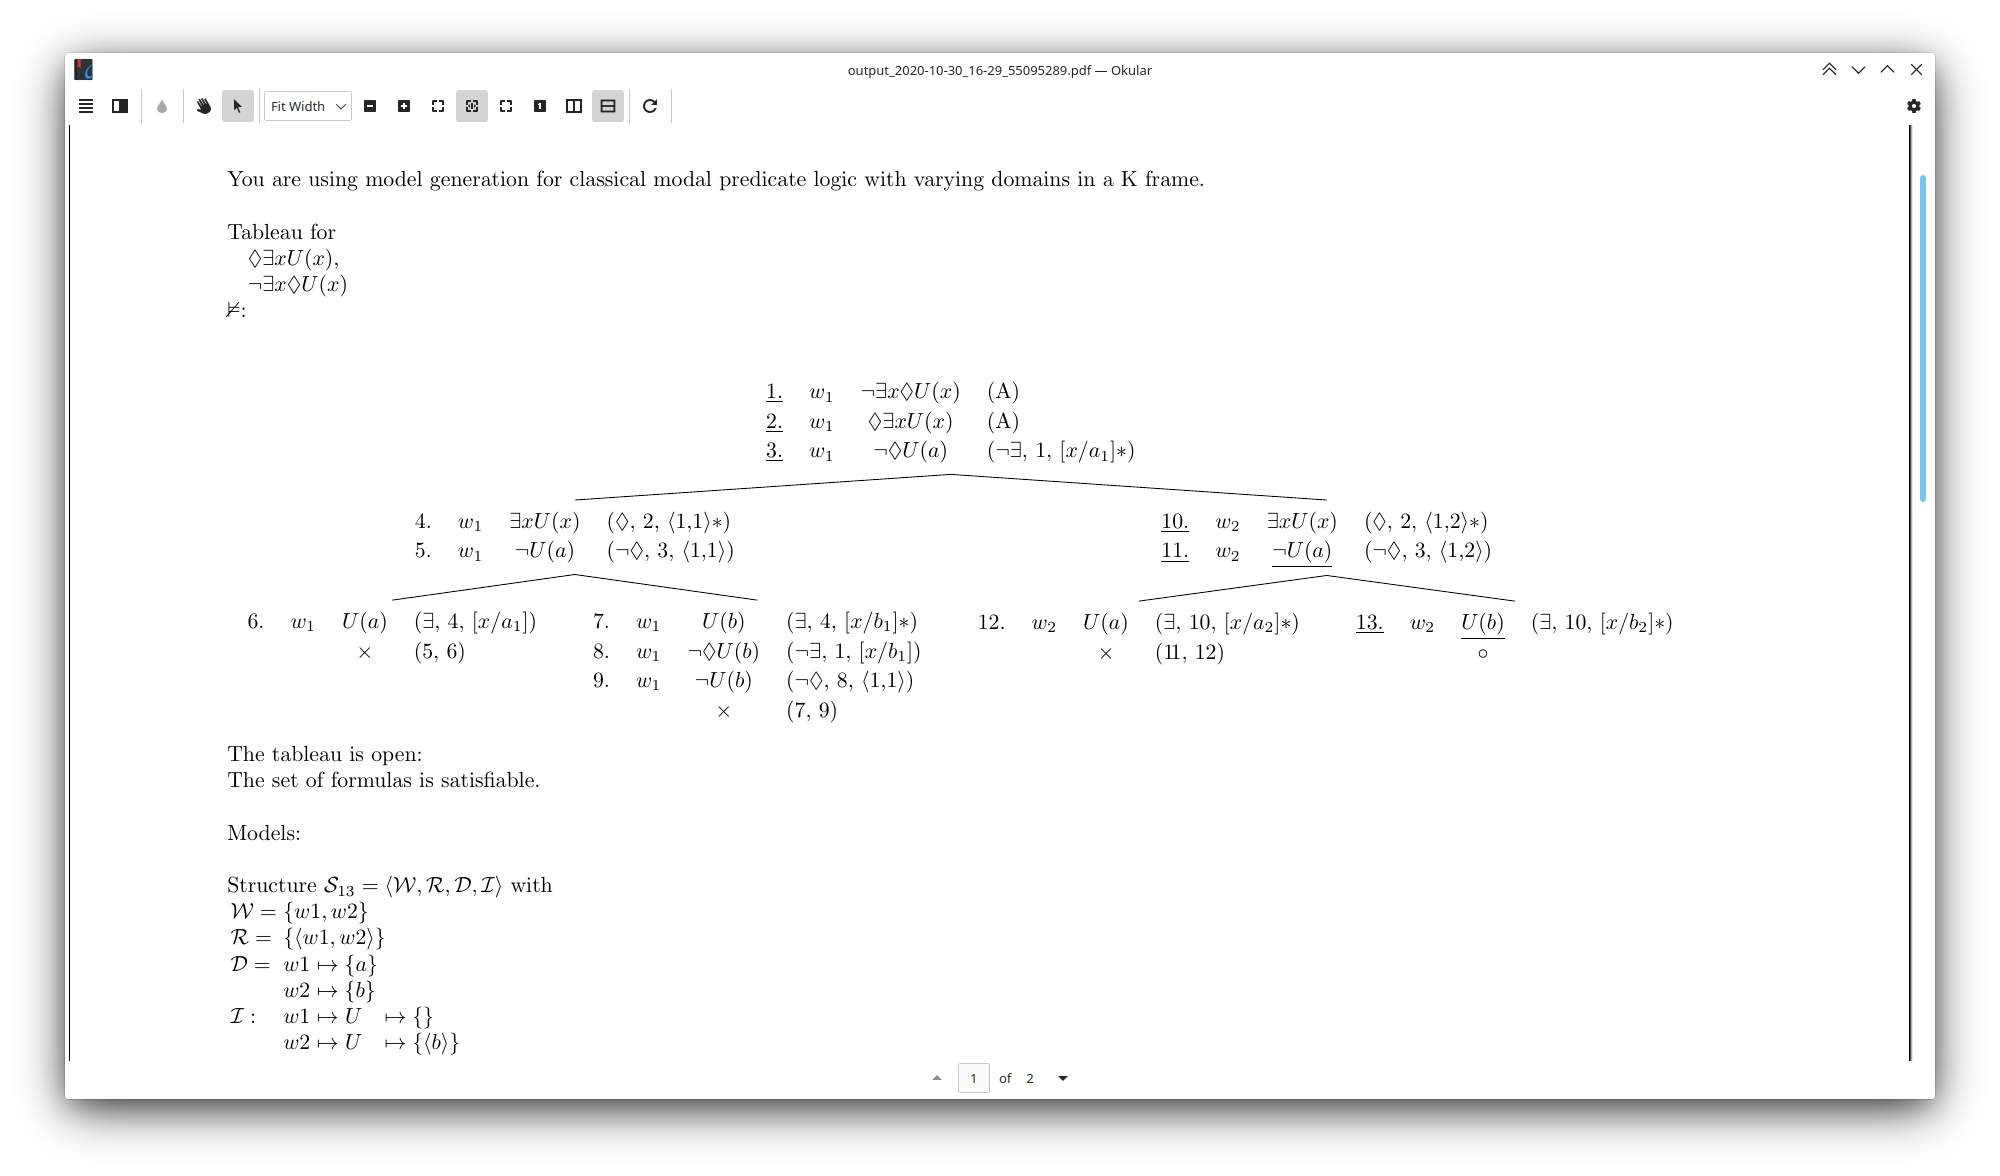
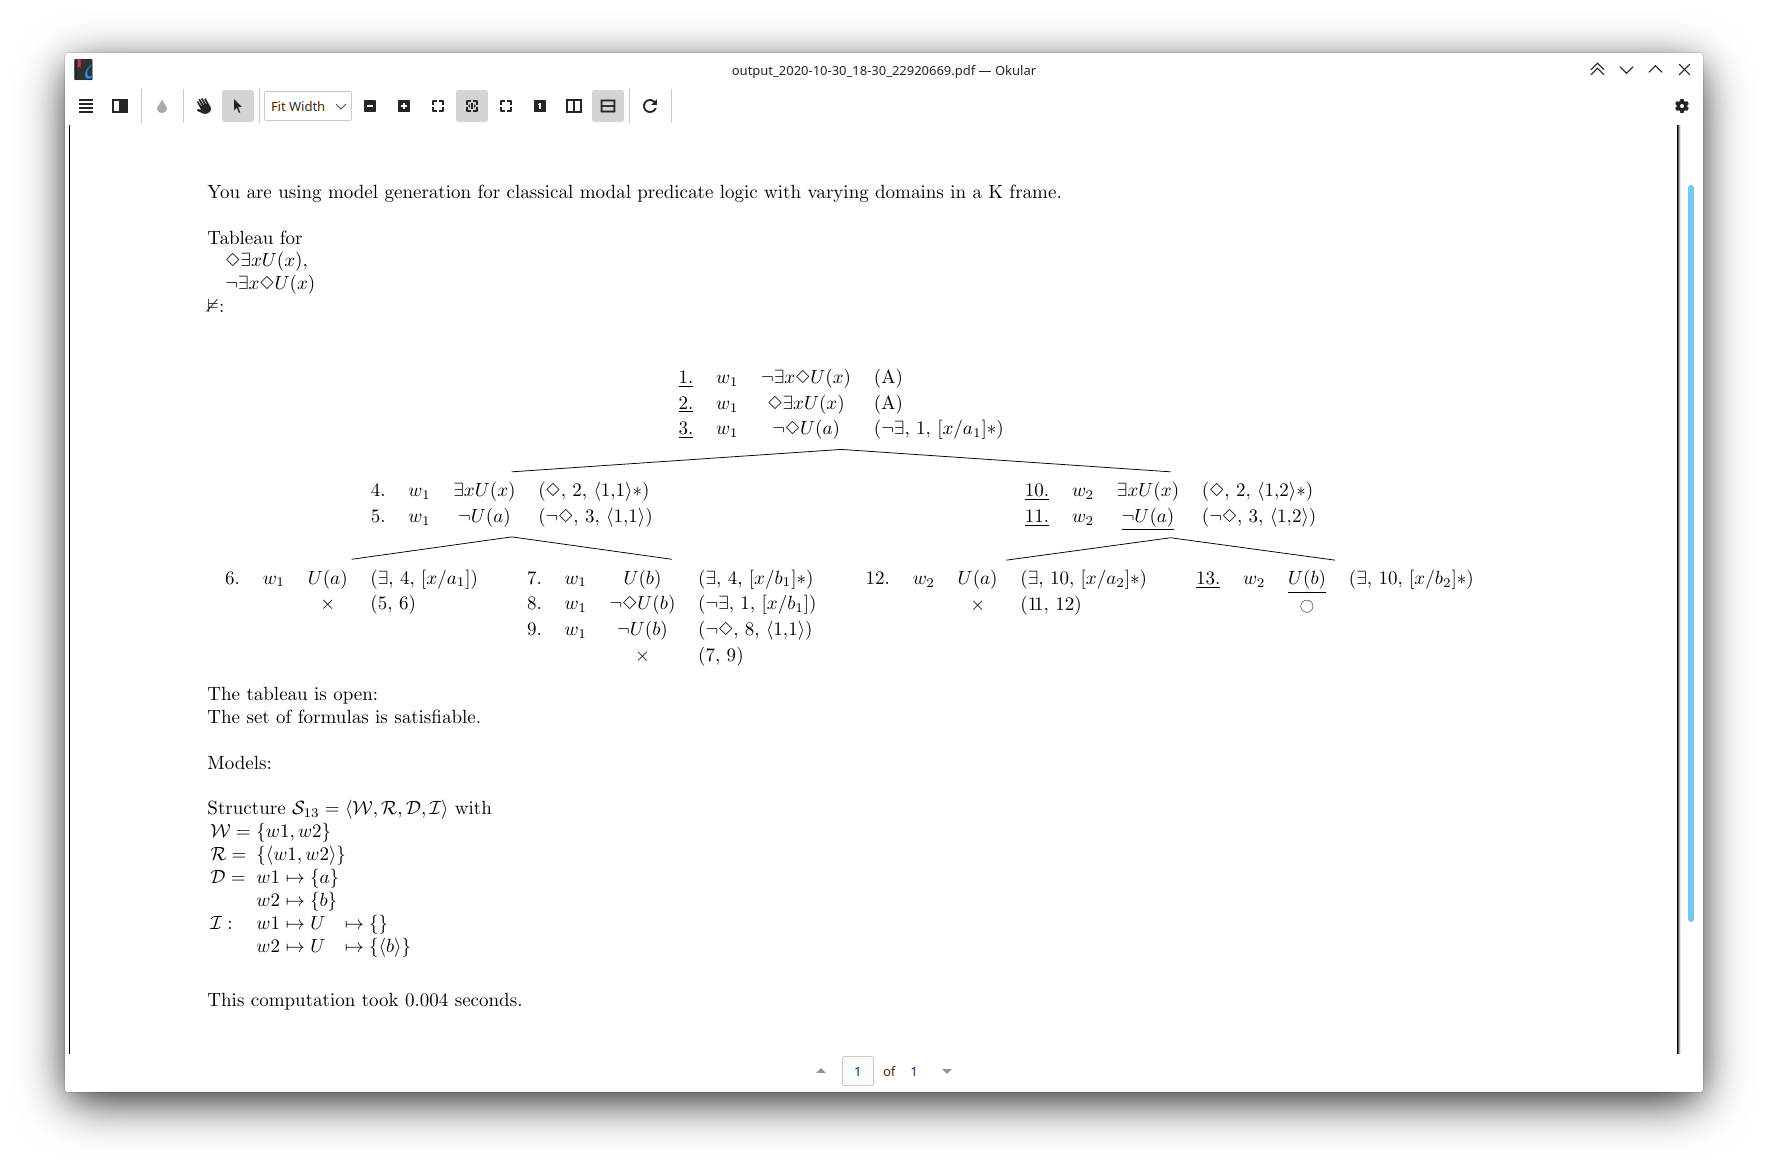
update screenshots

diff --git a/preamble.tex b/preamble.tex
@@ -6,7 +6,7 @@
 \setlength{\parindent}{0pt}  % no paragraph indentation
 
 % math formatting
-\usepackage{amssymb, amsmath, amstext}
+\usepackage{amssymb, amsmath, amstext, wasysym}
 
 % tableau trees
 \usepackage[linguistics]{forest}

diff --git a/expr.py b/expr.py
@@ -2179,7 +2179,7 @@ class Open(Pseudo):
         return "○"
 
     def tex(self):
-        return "\\circ"
+        return "\\ocircle"
 
 
 class Infinite(Pseudo):

diff --git a/README.md b/README.md
@@ -7,7 +7,7 @@ This tool can compute
 
 ![pyPL GUI -- start](doc/img/pyPL_1_MG.png)
 ![pyPL GUI -- input](doc/img/pyPL_2_MG.png)
-![pyPL GUI -- output](doc/img/pyPL_5_CMG.png)
+![pyPL GUI -- output](doc/img/pyPL_5_MG.png)
 
 © Natalie Clarius <natalie.clarius@student.uni-tuebingen.de>  
 License: CC BY-NC-SA 4.0 (https://creativecommons.org/licenses/by-nc-sa/4.0/).
